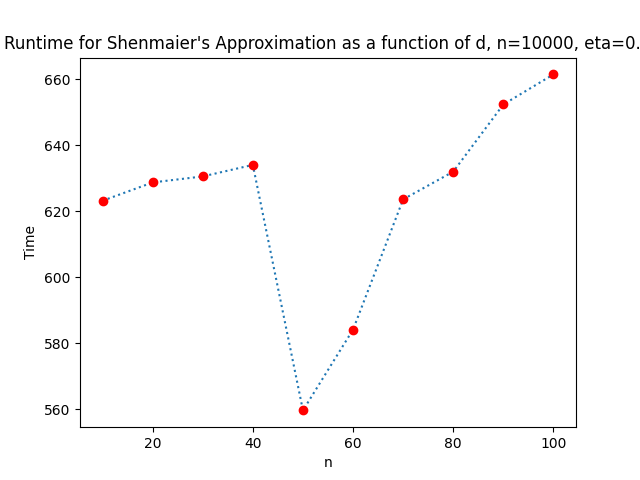
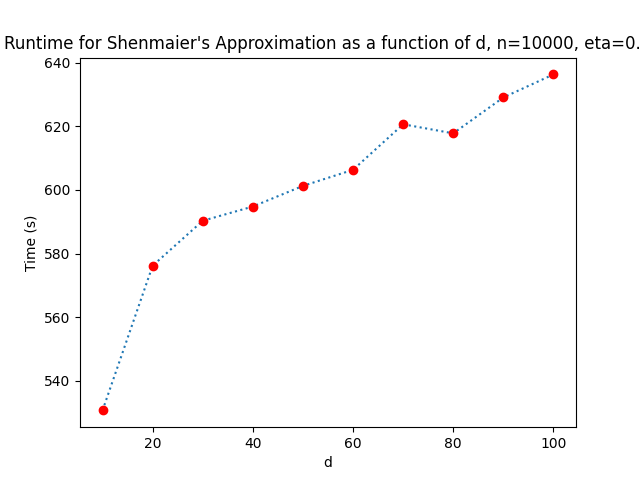
benchmarking

diff --git a/src/mebwo_alg_benchmarking.py b/src/mebwo_alg_benchmarking.py
@@ -81,7 +81,7 @@ if msg == "y":
             
             if param_types["d"]:
                 n = 10000
-                d = [10 + 10*i for i in range(10) if 10+10*i > 40]
+                d = [10 + 10*i for i in range(10)]
                 eta = 0.9
 
                 if func_name == "relaxation_heuristic":
